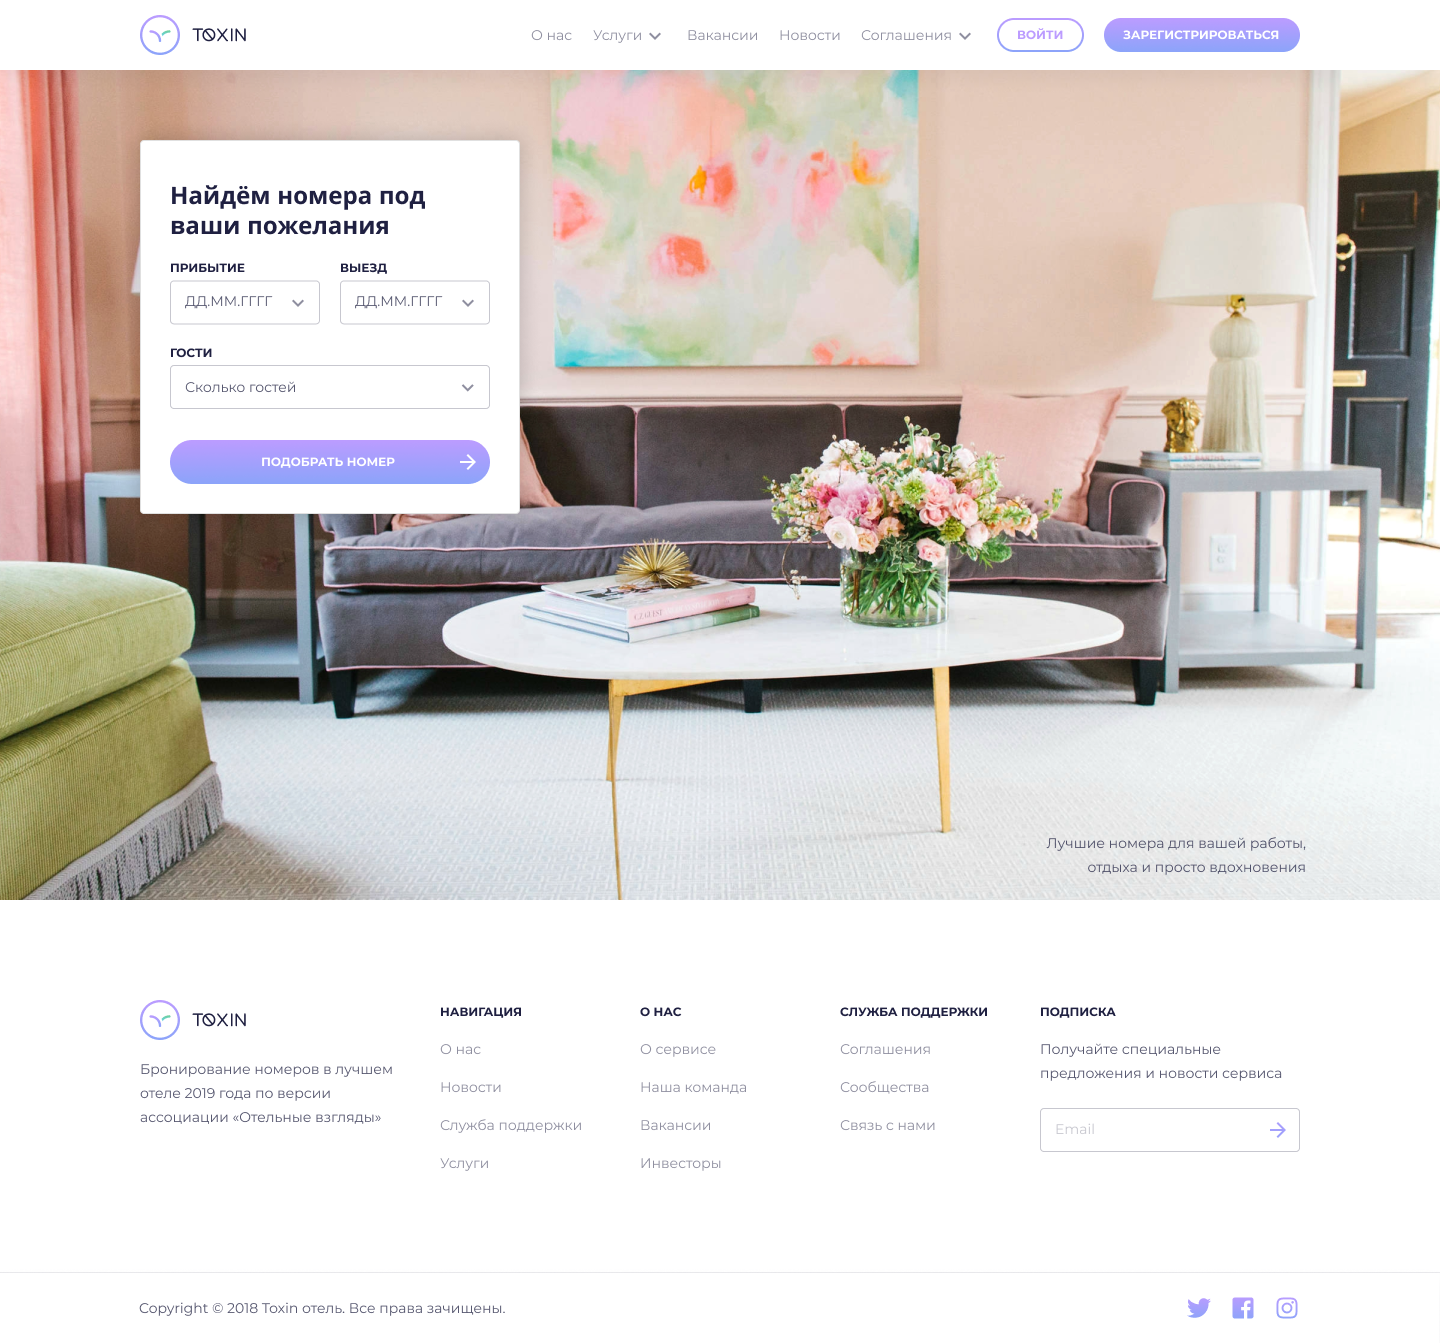
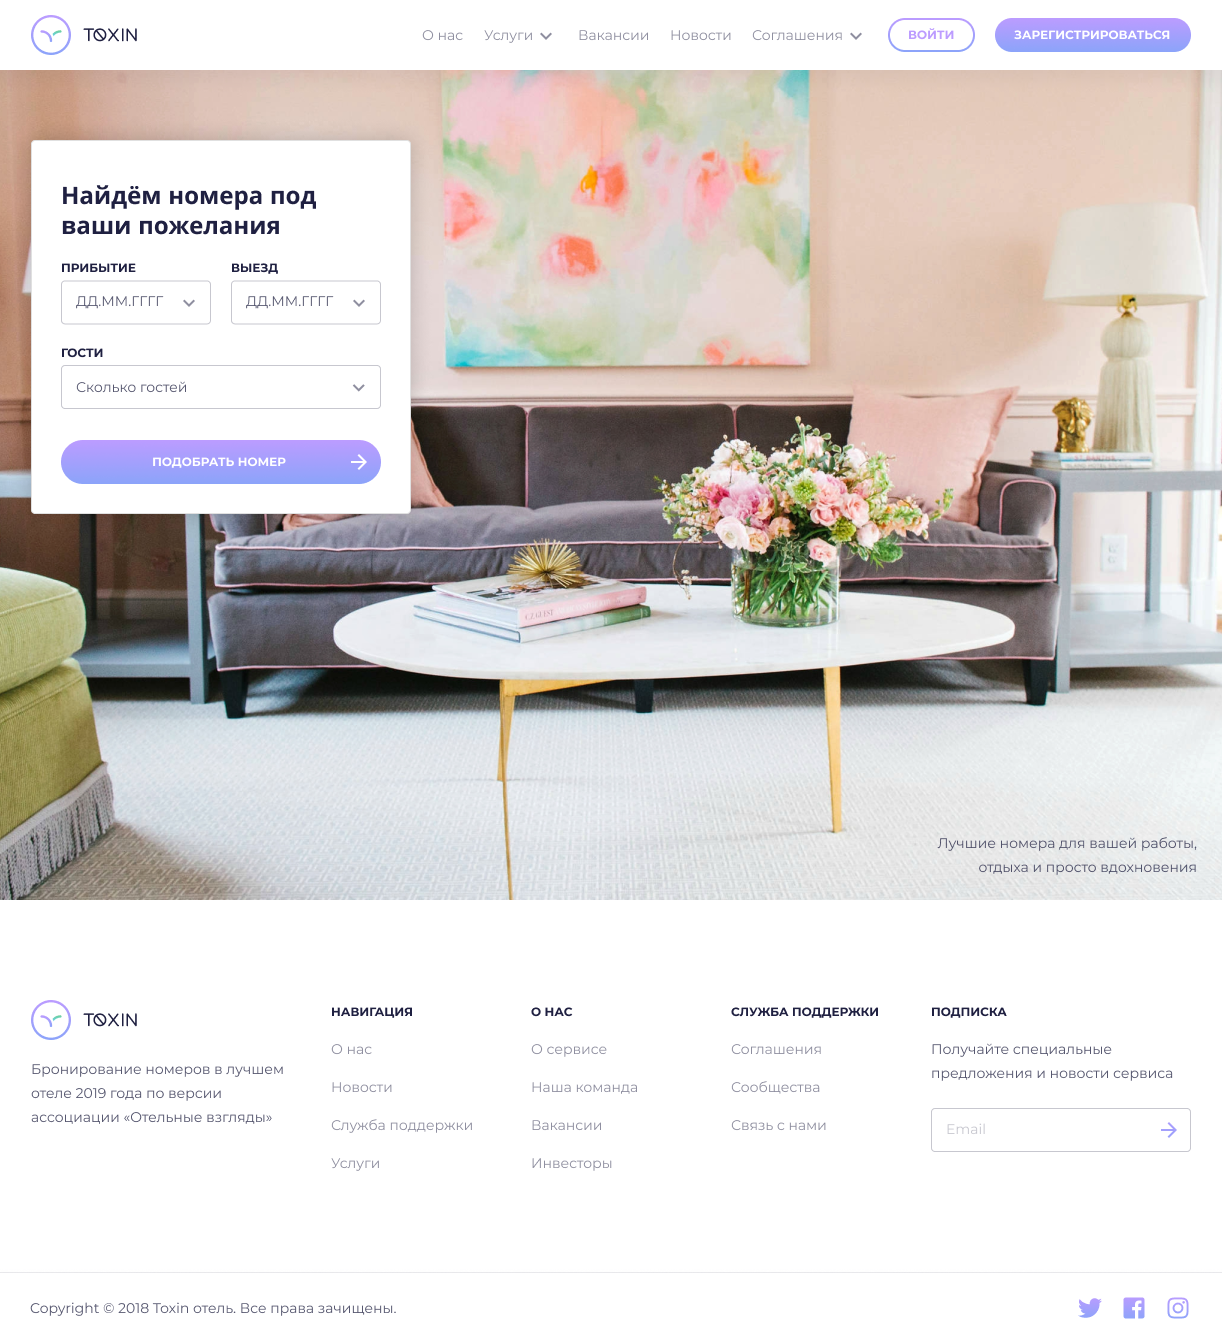
star header

diff --git a/src/scss/modules/header.scss b/src/scss/modules/header.scss
@@ -1,0 +1,15 @@
+header {
+  width: 100%;
+  height: 70px;
+  display: flex;
+  justify-content: center;
+  align-items: center;
+  .header-inner {
+    width: 100%;
+    max-width: 1222px;
+    display: flex;
+    justify-content: space-between;
+    align-items: center;
+    height: 100%;
+  }
+}

diff --git a/src/scss/main.scss b/src/scss/main.scss
@@ -1,7 +1,7 @@
 @import "utils/libs";
 @import "utils/vars";
 @import "utils/mixins";
-//@import "utils/fonts";
+@import "utils/fonts";
 
 html {
   line-height: $mainLineHeight;
@@ -87,4 +87,5 @@ section, .section {
   }
 }
 
+@import "modules/header.scss";
 @import "modules/wrapper.scss";

diff --git a/src/scss/modules/wrapper.scss b/src/scss/modules/wrapper.scss
@@ -1,12 +1,1 @@
     
-// .wrapper_example {
-//   display: flex;
-//   h1 {
-//     font-size: rem(20)
-//   }
-// }
-
-// #main {
-//   background-image: url('/assets/img/dogsad.jpg');
-//   width: 100%;
-// }
